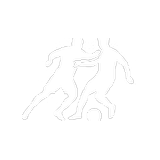
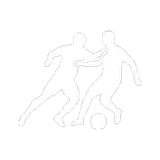
fix(ui): cut metric silhouettes from the new render sheet
Replace hand-drawn stick icons with cropped sheet glyphs so the pack
matches one athletic silhouette style and fouls/duels framing.

diff --git a/js/version.js b/js/version.js
@@ -1,2 +1,2 @@
 // Keep in sync with android/app/build.gradle versionName.
-window.FFK_VERSION = '1.2.2';
+window.FFK_VERSION = '1.2.3';

diff --git a/sw.js b/sw.js
@@ -1,4 +1,4 @@
-const CACHE = 'ffk_v84';
+const CACHE = 'ffk_v85';
 const ASSETS = [
   './',
   './index.html',
